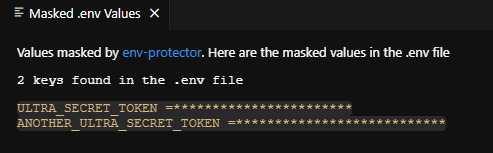
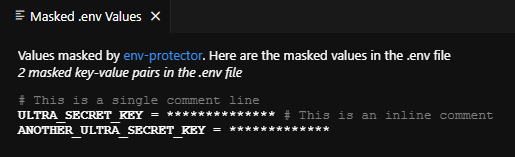
Bump version to 1.0.4 and enhance masked view rendering

Changed region(s): [[0.0304, 0.6013, 0.9736, 0.8889], [0.0304, 0.2876, 0.9128, 0.5752], [0.0304, 0.0261, 0.3347, 0.1569]]

diff --git a/src/utils/get-masked-view.ts b/src/utils/get-masked-view.ts
@@ -39,30 +39,53 @@ export function getMaskedView(text: string, name: string): string {
     return htmlDocument.documentElement.outerHTML
   }
 
+  let keyCount: number = 0
+
   const lines = text.split('\n')
   for (const line of lines) {
     const trimmedLine = line.trim()
+    const singleLineComment = htmlDocument.createElement('span')
     if (trimmedLine.startsWith('#') || trimmedLine.length === 0) {
-      const p = htmlDocument.createElement('p')
-      p.textContent = line
-      pre.appendChild(p)
+      singleLineComment.textContent = line
+      singleLineComment.style.color = 'gray'
+      pre.appendChild(singleLineComment)
     } else {
-      // Yorum varsa, ayırmak için # işaretini kullan
       const [keyValuePart, commentPart] = line.split('#')
-      // Key ve value'yu ayırmak için = işaretini kullan
       const [key, value] = keyValuePart.split('=')
-      const code = htmlDocument.createElement('code')
-      // Key ve value'yu maskeli olarak ekle
-      code.textContent = `${key}=${value.replace(/./g, '*')}`
-      // Comment varsa, comment kısmını ekle
+
+      const keySpan = htmlDocument.createElement('span')
+      keySpan.style.fontWeight = 'bold'
+      keySpan.textContent = key
+
+      const equalSignSpan = htmlDocument.createElement('span')
+      equalSignSpan.textContent = '='
+
+      const valueSpan = htmlDocument.createElement('span')
+      valueSpan.textContent = value.replace(/./g, '*')
+      valueSpan.textContent = ' ' + valueSpan.textContent
+
+      const lineDiv = htmlDocument.createElement('div')
+      lineDiv.appendChild(keySpan)
+      lineDiv.appendChild(equalSignSpan)
+      lineDiv.appendChild(valueSpan)
+      
       if (commentPart) {
-        const span = htmlDocument.createElement('span')
-        span.textContent = ` #${commentPart}`
-        code.appendChild(span)
+        const commentSpan = htmlDocument.createElement('span')
+        commentSpan.textContent = ` #${commentPart}`
+        commentSpan.style.color = 'gray'
+        lineDiv.appendChild(commentSpan)
       }
-      pre.appendChild(code)
+
+      pre.appendChild(lineDiv)
+      keyCount++
     }
   }
+  const br = htmlDocument.createElement('br')
+  p.appendChild(br)
+  const span = htmlDocument.createElement('i')
+  span.style.fontStyle = 'italic'
+  span.textContent = `${keyCount} masked key-value pairs in the .env file`
+  p.appendChild(span)
   htmlDocument.body.appendChild(p)
   htmlDocument.body.appendChild(pre)
   return htmlDocument.documentElement.outerHTML
